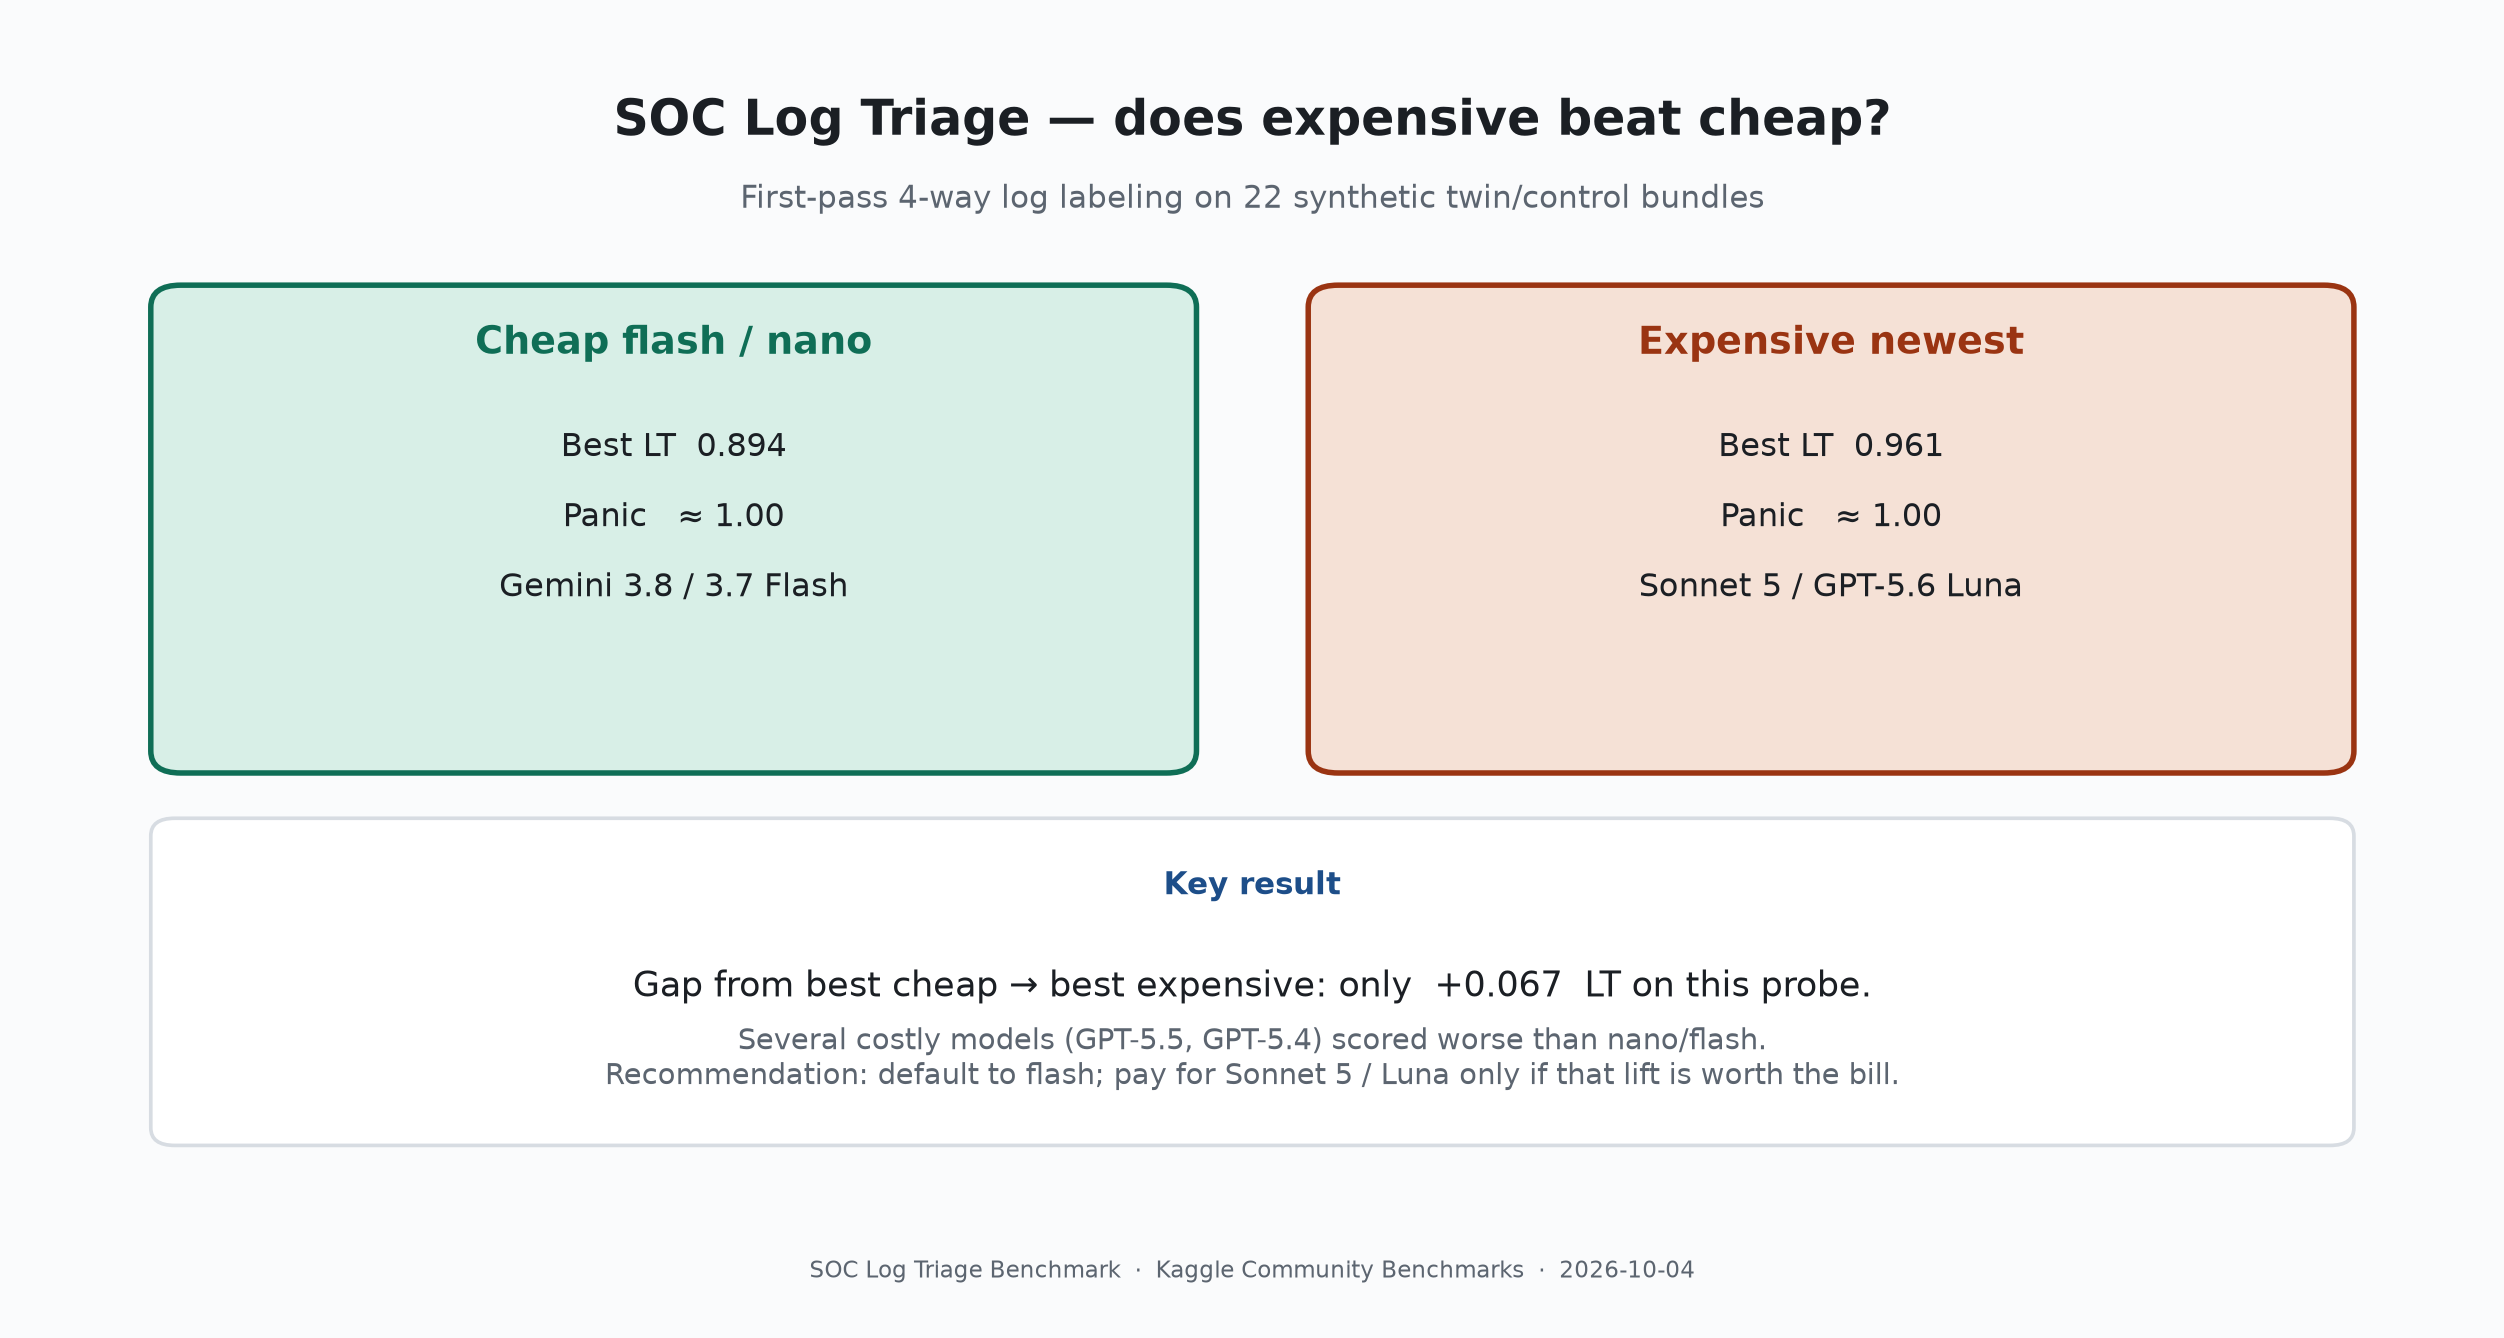
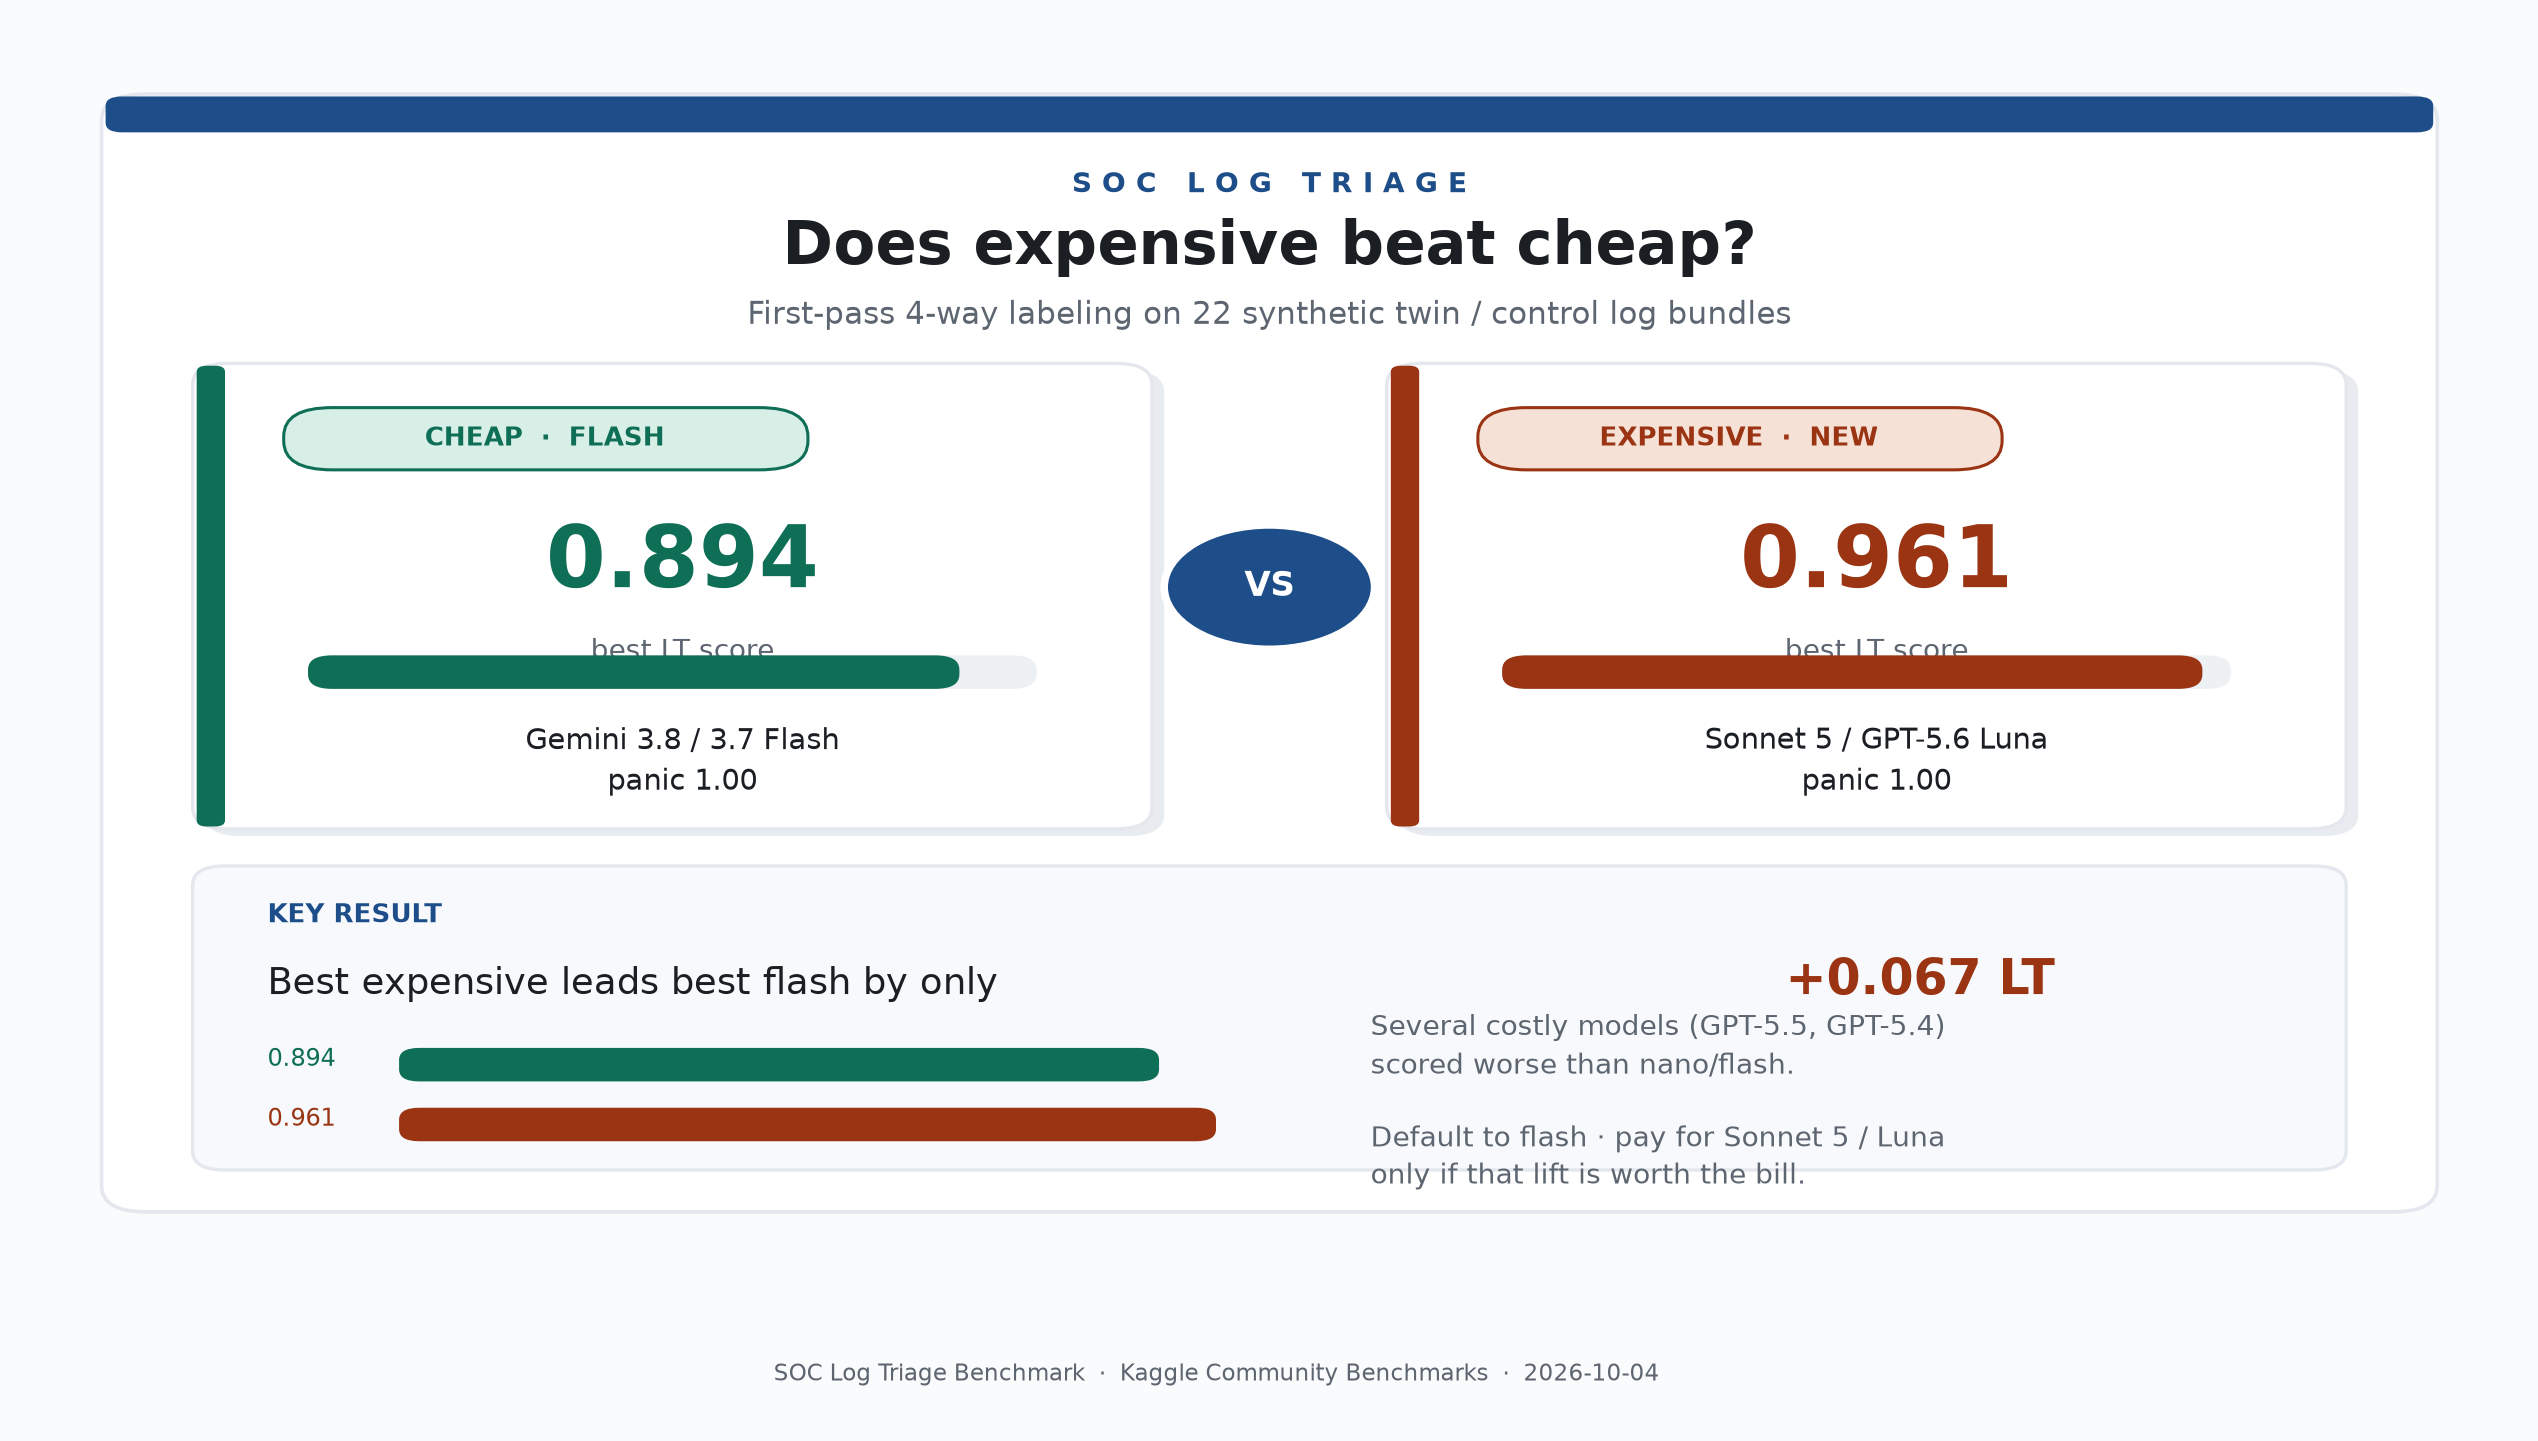
Polish takeaway board with hero metrics and visual gap.

diff --git a/scripts/make_log_triage_charts.py b/scripts/make_log_triage_charts.py
@@ -294,99 +294,260 @@ def chart_panic_parity() -> Path:
 
 
 def chart_takeaway_board() -> Path:
+    """Polished hero takeaway card for the article."""
     _style()
-    fig, ax = plt.subplots(figsize=(11.2, 5.8))
+    fig, ax = plt.subplots(figsize=(12.0, 6.8))
     ax.set_xlim(0, 12)
-    ax.set_ylim(0, 8)
+    ax.set_ylim(0, 10)
     ax.axis("off")
+    fig.patch.set_facecolor("#F4F6F8")
+    ax.set_facecolor("#F4F6F8")
+
+    # Outer canvas card
+    ax.add_patch(
+        FancyBboxPatch(
+            (0.25, 0.35),
+            11.5,
+            9.3,
+            boxstyle="round,pad=0.02,rounding_size=0.22",
+            facecolor="white",
+            edgecolor="#E4E8EE",
+            lw=1.2,
+            zorder=0,
+        )
+    )
+
+    # Top accent rule
+    ax.add_patch(
+        FancyBboxPatch(
+            (0.25, 9.35),
+            11.5,
+            0.30,
+            boxstyle="round,pad=0.0,rounding_size=0.08",
+            facecolor=ACCENT,
+            edgecolor="none",
+            zorder=1,
+        )
+    )
 
     ax.text(
         6,
-        7.45,
-        "SOC Log Triage — does expensive beat cheap?",
+        8.85,
+        "S O C   L O G   T R I A G E",
         ha="center",
-        fontsize=16,
+        fontsize=9,
+        fontweight="bold",
+        color=ACCENT,
+    )
+    ax.text(
+        6,
+        8.25,
+        "Does expensive beat cheap?",
+        ha="center",
+        fontsize=20,
         fontweight="bold",
         color=INK,
     )
     ax.text(
         6,
-        6.95,
-        "First-pass 4-way log labeling on 22 synthetic twin/control bundles",
+        7.75,
+        "First-pass 4-way labeling on 22 synthetic twin / control log bundles",
         ha="center",
         fontsize=10,
         color=MUTED,
     )
 
-    def card(x, y, w, h, edge, fill, title, lines):
+    def metric_card(x, y, w, h, edge, fill, badge, score, model, panic="1.00"):
+        # soft shadow
+        ax.add_patch(
+            FancyBboxPatch(
+                (x + 0.06, y - 0.06),
+                w,
+                h,
+                boxstyle="round,pad=0.02,rounding_size=0.18",
+                facecolor="#E8ECF1",
+                edgecolor="none",
+                zorder=1,
+            )
+        )
         ax.add_patch(
             FancyBboxPatch(
                 (x, y),
                 w,
                 h,
-                boxstyle="round,pad=0.02,rounding_size=0.15",
-                facecolor=fill,
-                edgecolor=edge,
-                lw=1.8,
-                zorder=1,
+                boxstyle="round,pad=0.02,rounding_size=0.18",
+                facecolor="white",
+                edgecolor="#E4E8EE",
+                lw=1.1,
+                zorder=2,
             )
         )
-        ax.text(x + w / 2, y + h - 0.45, title, ha="center", fontsize=12.5, fontweight="bold", color=edge)
-        for i, line in enumerate(lines):
-            ax.text(x + w / 2, y + h - 1.15 - i * 0.48, line, ha="center", fontsize=10.5, color=INK)
+        # left color rail
+        ax.add_patch(
+            FancyBboxPatch(
+                (x, y),
+                0.14,
+                h,
+                boxstyle="round,pad=0.0,rounding_size=0.05",
+                facecolor=edge,
+                edgecolor="none",
+                zorder=3,
+            )
+        )
+        # badge pill
+        ax.add_patch(
+            FancyBboxPatch(
+                (x + 0.45, y + h - 0.85),
+                2.55,
+                0.48,
+                boxstyle="round,pad=0.02,rounding_size=0.24",
+                facecolor=fill,
+                edgecolor=edge,
+                lw=1.0,
+                zorder=3,
+            )
+        )
+        ax.text(
+            x + 1.72,
+            y + h - 0.61,
+            badge,
+            ha="center",
+            va="center",
+            fontsize=8.5,
+            fontweight="bold",
+            color=edge,
+            zorder=4,
+        )
+        ax.text(
+            x + w / 2 + 0.05,
+            y + h - 1.85,
+            f"{score:.3f}",
+            ha="center",
+            fontsize=28,
+            fontweight="bold",
+            color=edge,
+            zorder=4,
+        )
+        ax.text(
+            x + w / 2 + 0.05,
+            y + h - 2.45,
+            "best LT score",
+            ha="center",
+            fontsize=9,
+            color=MUTED,
+            zorder=4,
+        )
+        # mini progress bar
+        bar_x, bar_y, bar_w, bar_h = x + 0.55, y + 1.15, w - 1.1, 0.28
+        ax.add_patch(
+            FancyBboxPatch(
+                (bar_x, bar_y),
+                bar_w,
+                bar_h,
+                boxstyle="round,pad=0.0,rounding_size=0.12",
+                facecolor="#EEF1F4",
+                edgecolor="none",
+                zorder=3,
+            )
+        )
+        ax.add_patch(
+            FancyBboxPatch(
+                (bar_x, bar_y),
+                max(0.08, bar_w * score),
+                bar_h,
+                boxstyle="round,pad=0.0,rounding_size=0.12",
+                facecolor=edge,
+                edgecolor="none",
+                zorder=4,
+            )
+        )
+        ax.text(
+            x + w / 2 + 0.05,
+            y + 0.55,
+            f"{model}\npanic {panic}",
+            ha="center",
+            va="center",
+            fontsize=9.5,
+            color=INK,
+            zorder=4,
+            linespacing=1.45,
+        )
 
-    card(
-        0.5,
-        3.1,
-        5.2,
-        3.3,
-        CHEAP_C,
-        CHEAP_SOFT,
-        "Cheap flash / nano",
-        ["Best LT  0.894", "Panic   ≈ 1.00", "Gemini 3.8 / 3.7 Flash"],
-    )
-    card(
-        6.3,
-        3.1,
-        5.2,
-        3.3,
-        EXP_C,
-        EXP_SOFT,
-        "Expensive newest",
-        ["Best LT  0.961", "Panic   ≈ 1.00", "Sonnet 5 / GPT-5.6 Luna"],
-    )
+    metric_card(0.7, 3.55, 4.7, 3.85, CHEAP_C, CHEAP_SOFT, "CHEAP  ·  FLASH", 0.894, "Gemini 3.8 / 3.7 Flash")
+    metric_card(6.6, 3.55, 4.7, 3.85, EXP_C, EXP_SOFT, "EXPENSIVE  ·  NEW", 0.961, "Sonnet 5 / GPT-5.6 Luna")
 
+    # Center VS / delta pill
+    ax.add_patch(
+        plt.Circle((6.0, 5.55), 0.52, facecolor=ACCENT, edgecolor="white", lw=2.5, zorder=5)
+    )
+    ax.text(6.0, 5.55, "VS", ha="center", va="center", fontsize=11, fontweight="bold", color="white", zorder=6)
+
+    # Bottom insight strip
     ax.add_patch(
         FancyBboxPatch(
-            (0.5, 0.55),
-            11.0,
-            2.2,
-            boxstyle="round,pad=0.02,rounding_size=0.12",
-            facecolor="white",
-            edgecolor=RULE,
-            lw=1.2,
-            zorder=1,
+            (0.7, 0.7),
+            10.6,
+            2.5,
+            boxstyle="round,pad=0.02,rounding_size=0.16",
+            facecolor="#F7F9FC",
+            edgecolor="#E4E8EE",
+            lw=1.1,
+            zorder=2,
         )
     )
-    ax.text(6, 2.25, "Key result", ha="center", fontsize=10, fontweight="bold", color=ACCENT)
+    ax.text(1.05, 2.75, "KEY RESULT", ha="left", fontsize=8.5, fontweight="bold", color=ACCENT, zorder=3)
     ax.text(
-        6,
-        1.55,
-        "Gap from best cheap → best expensive: only  +0.067  LT on this probe.",
-        ha="center",
-        fontsize=11.5,
+        1.05,
+        2.15,
+        "Best expensive leads best flash by only",
+        ha="left",
+        fontsize=12,
         color=INK,
+        zorder=3,
     )
     ax.text(
-        6,
-        0.95,
-        "Several costly models (GPT-5.5, GPT-5.4) scored worse than nano/flash.\n"
-        "Recommendation: default to flash; pay for Sonnet 5 / Luna only if that lift is worth the bill.",
-        ha="center",
-        fontsize=9.5,
-        color=MUTED,
+        8.55,
+        2.15,
+        "+0.067 LT",
+        ha="left",
+        fontsize=16,
+        fontweight="bold",
+        color=EXP_C,
+        zorder=3,
     )
-    return _save(fig, "expensive_vs_cheap_takeaway.png", rect=(0, 0.03, 1, 1), tight=False)
+
+    # comparative mini bars inside insight strip
+    ax.text(1.05, 1.55, "0.894", ha="left", fontsize=8, color=CHEAP_C, zorder=3)
+    ax.add_patch(
+        FancyBboxPatch(
+            (1.7, 1.42), 0.894 * 4.2, 0.28,
+            boxstyle="round,pad=0.0,rounding_size=0.1",
+            facecolor=CHEAP_C, edgecolor="none", zorder=3,
+        )
+    )
+    ax.text(1.05, 1.05, "0.961", ha="left", fontsize=8, color=EXP_C, zorder=3)
+    ax.add_patch(
+        FancyBboxPatch(
+            (1.7, 0.92), 0.961 * 4.2, 0.28,
+            boxstyle="round,pad=0.0,rounding_size=0.1",
+            facecolor=EXP_C, edgecolor="none", zorder=3,
+        )
+    )
+    ax.text(
+        6.5,
+        1.25,
+        "Several costly models (GPT-5.5, GPT-5.4)\n"
+        "scored worse than nano/flash.\n\n"
+        "Default to flash · pay for Sonnet 5 / Luna\n"
+        "only if that lift is worth the bill.",
+        ha="left",
+        va="center",
+        fontsize=9,
+        color=MUTED,
+        zorder=3,
+        linespacing=1.35,
+    )
+    return _save(fig, "expensive_vs_cheap_takeaway.png", rect=(0, 0.02, 1, 1), tight=False)
 
 
 def chart_label_distribution() -> Path:
